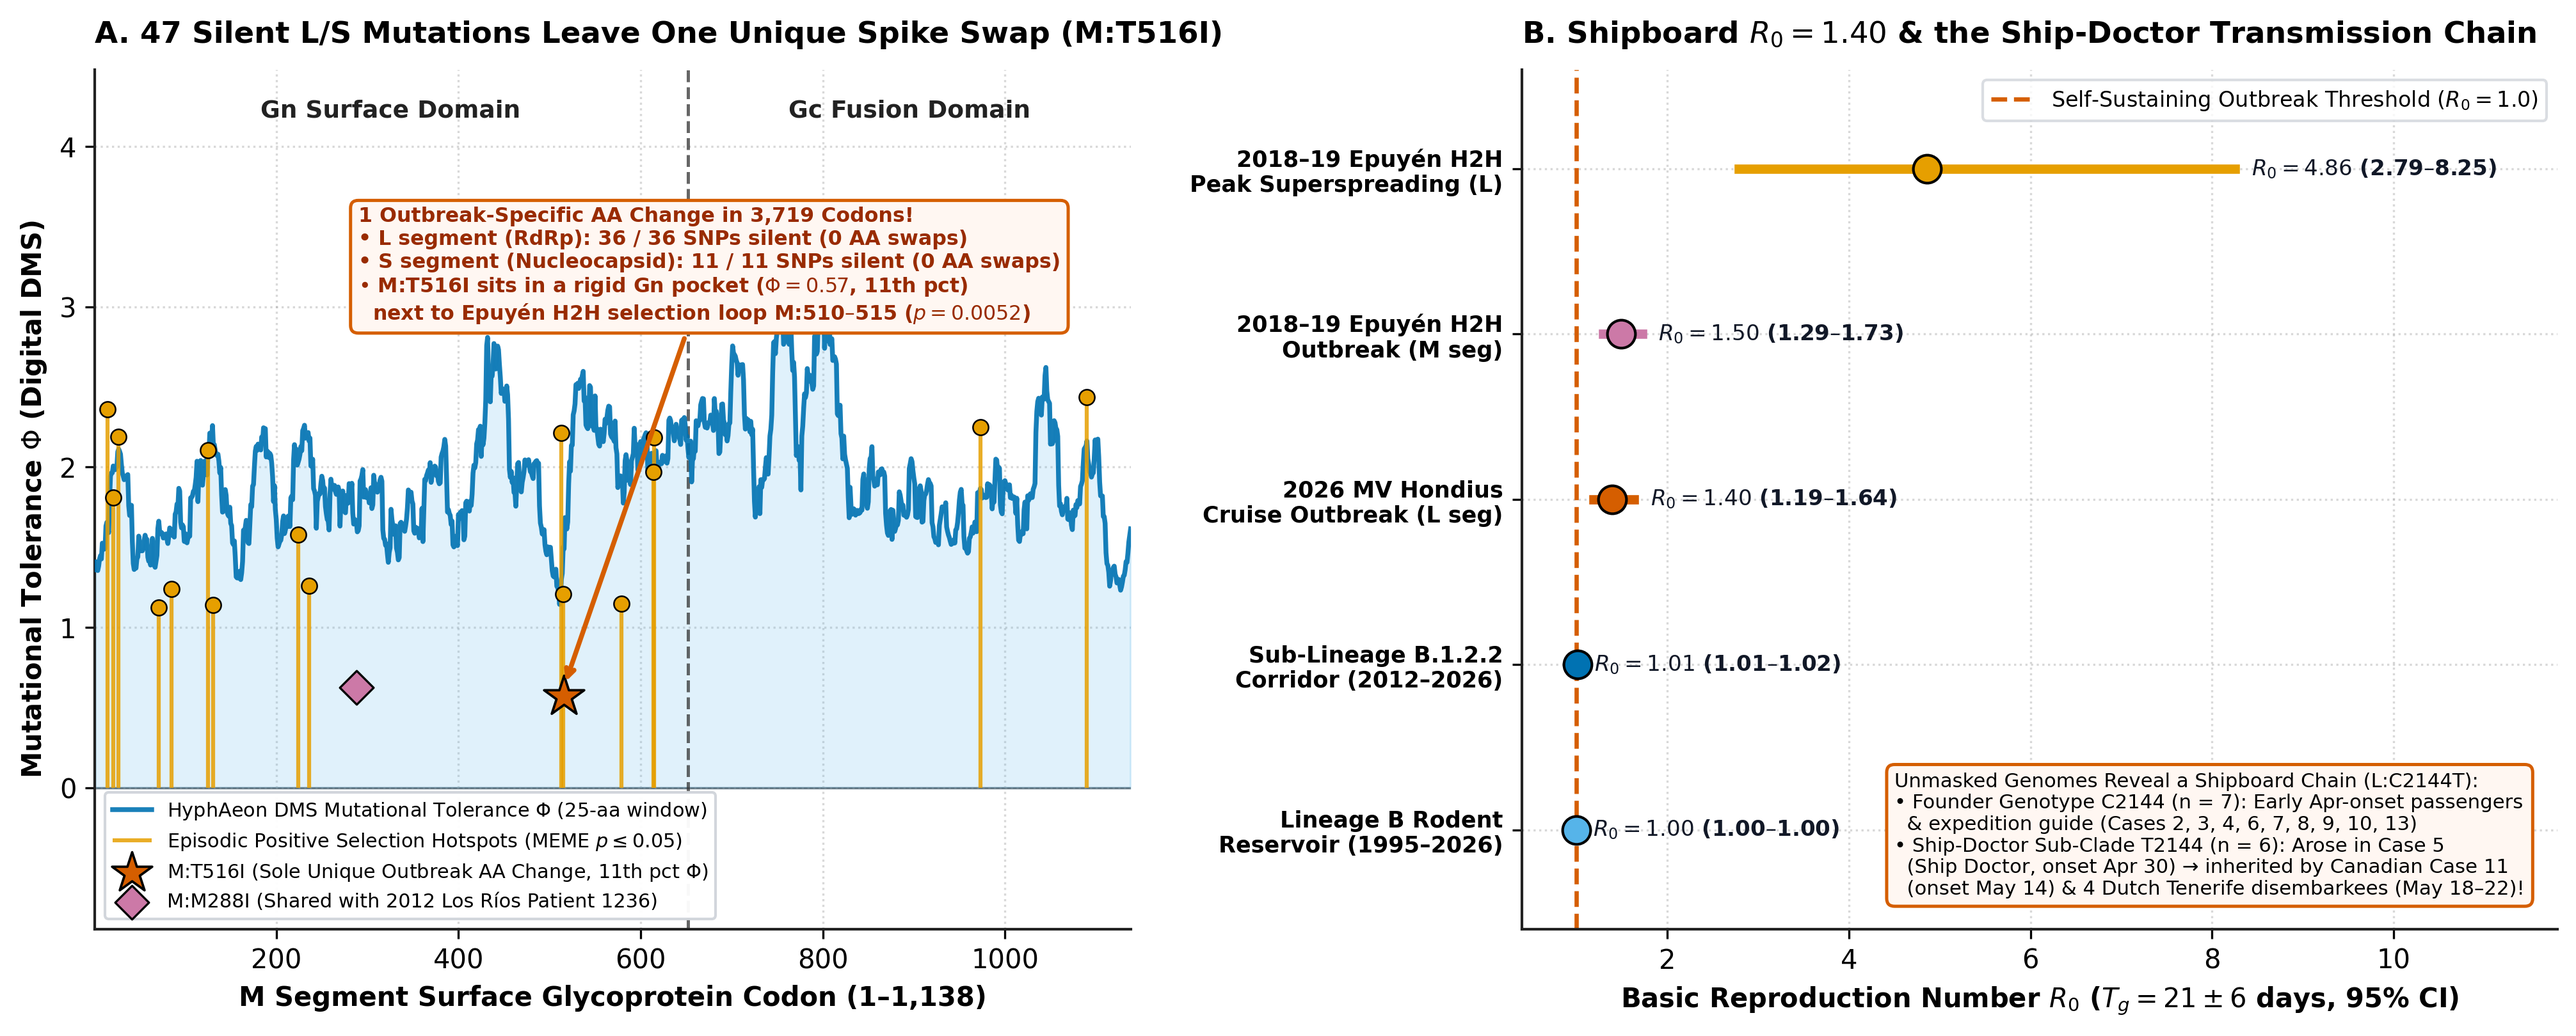
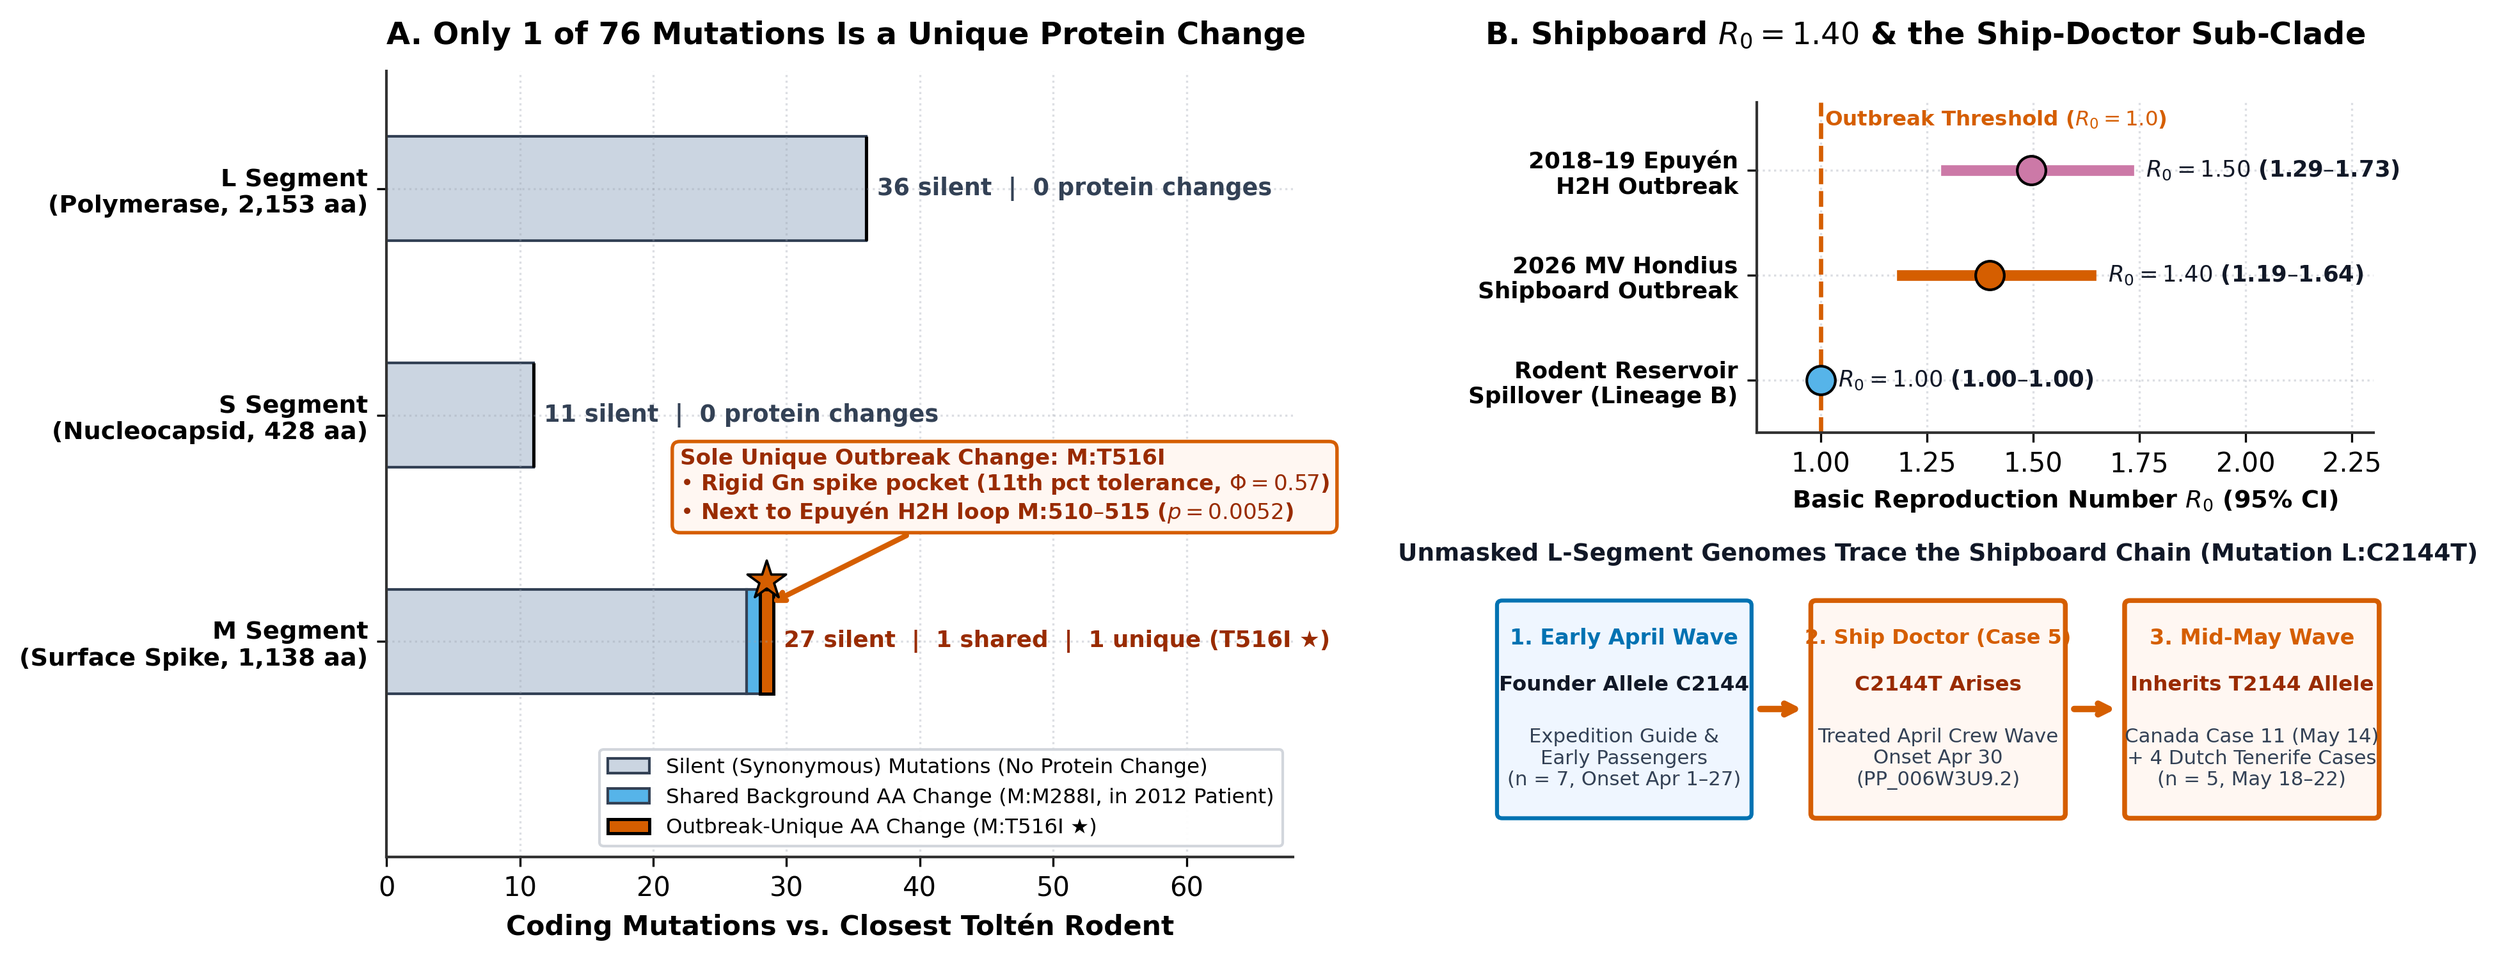
Simplify MV Hondius blog figures with segment tanglegram and transmission flowchart

diff --git a/blog/2026-11-05-andv-hondius.html b/blog/2026-11-05-andv-hondius.html
@@ -300,11 +300,11 @@
 
         <div class="figure-container">
             <img src="images/andv_hondius_fig1_origin_reassortment.png"
-                alt="Two-panel figure showing (A) ChronAeon molecular clock regression dating Clade B.1.2.2 to 1989.5 and the Tolten-Hondius split to 2007.9, and (B) RhizAeon coding divergence showing Lanco rodent R600-UDD is an L vs M+S inter-clade reassortant.">
+                alt="Two-panel figure showing (A) ChronAeon molecular clock regression narrowing the Tolten-Hondius split by 7.3 years from 2000 to 2007.9, and (B) simplified segment trees (tanglegram) showing Lanco rodent R600-UDD switching from Clade B.1.2.2 on the L segment to Clade B.1.2.1 on the M and S segments.">
             <div class="figure-caption">
-                <strong>Figure 1. Post-2013 genomes narrow the outbreak split by 7.3 years and expose a chimeric rodent genome.</strong>
-                <strong>(A)</strong> In 0.57 seconds, <code>chronaeon date</code> calibrates the expanded <code>B.1.2.2</code> M-segment clock (<span class="metric-badge">R² = 0.73</span>, Fieller <em>g</em> = 0.11), dating the clade crown to <strong>1989.5</strong> and narrowing the Toltén–<em>Hondius</em> split from August 2000 to <strong>~2007.9</strong> (95% CI: 2003.4–2010.8). Fieller's ratio <em>g</em> shows why the short 1.3 kb S segment (<em>g</em> = 2.25 ≥ 1) cannot support a bounded clock.
-                <strong>(B)</strong> Scanning all 105 three-segment genomes with <code>rhizaeon</code> reveals that Lanco rodent <code>R600-UDD</code> (2013) is an inter-clade reassortant (<span class="metric-badge">p = 3.2 × 10⁻¹¹</span>): its L segment matches Toltén/Lanco <code>B.1.2.2</code> (50 SNPs to <em>MV Hondius</em>), whereas its M and S segments jump to the Los Lagos <code>B.1.2.1</code> clade (93 M-SNPs to <em>MV Hondius</em>).
+                <strong>Figure 1. Post-2013 genomes narrow the outbreak split by 7.3 years and segment trees expose a chimeric rodent genome.</strong>
+                <strong>(A)</strong> In 0.57 seconds, <code>chronaeon date</code> calibrates the expanded <code>B.1.2.2</code> M-segment clock (<span class="metric-badge">R² = 0.73</span>, Fieller <em>g</em> = 0.11), shifting the Toltén–<em>Hondius</em> split forward by <strong>7.3 years</strong> from August 2000 to <strong>~2007.9</strong> (95% CI: 2003.4–2010.8).
+                <strong>(B)</strong> Simplified segment trees (<code>rhizaeon</code>) comparing the L segment (polymerase, left) against the M and S segments (spike and nucleocapsid, right). While <em>MV Hondius</em> and its Toltén/Los Ríos relatives stay inside Clade <code>B.1.2.2</code> across all three segments, Lanco rodent <code>R600-UDD</code> (2013) is an inter-clade reassortant (<span class="metric-badge">p = 3.2 × 10⁻¹¹</span>) whose M and S segments jump into the Los Lagos <code>B.1.2.1</code> clade.
             </div>
         </div>
 
@@ -334,11 +334,11 @@
 
         <div class="figure-container">
             <img src="images/andv_hondius_fig2_selection_transmission.png"
-                alt="Two-panel figure showing (A) HyphAeon mutational tolerance and positive selection across the M segment glycoprotein highlighting M:T516I next to the Epuyen selection loop M:510-515, and (B) ChronAeon R0 estimates and the L:C2144T ship-doctor transmission chain.">
+                alt="Two-panel figure showing (A) silent versus protein-changing mutations across the L, S, and M segments highlighting M:T516I as the only unique outbreak protein change out of 76 mutations, and (B) ChronAeon R0 estimates above a three-step flowchart of the L:C2144T ship-doctor transmission chain.">
             <div class="figure-caption">
-                <strong>Figure 2. Proteome-wide purifying conservation, the sole unique spike mutation <code>M:T516I</code>, and the shipboard transmission chain.</strong>
-                <strong>(A)</strong> Across all 3,719 codons of the <code>ANDV</code> proteome, <code>M:T516I</code> (orange star) is the only amino-acid substitution unique to the 2026 <em>MV Hondius</em> outbreak. In <code>hyphaeon dms</code>, site 516 sits in a structurally rigid pocket of the Gn surface domain (<span class="metric-badge">Φ = 0.57</span>, 11th percentile of M-segment tolerance) directly adjacent to an episodic positive selection loop (<code>M:510–515</code>, orange lollipops, <span class="metric-badge">p = 0.0052</span>) driven by the 2018–2019 Epuyén human-to-human outbreak.
-                <strong>(B)</strong> <code>chronaeon dynamics</code> separates endemic rodent reservoir spillover (<em>R</em><sub>0</sub> = 1.00) from self-sustaining shipboard spread aboard <em>MV Hondius</em> (<span class="metric-badge">R₀ = 1.40</span>, 95% CI: 1.19–1.64). Unmasked L-segment genomes reveal a shipboard mutation (<code>L:C2144T</code>) that arose in the ship's doctor (Case 5, onset Apr 30) and was inherited by five mid-May passenger cases across Canada and the Netherlands.
+                <strong>Figure 2. Only 1 of 76 coding mutations is a unique protein change (<code>M:T516I</code>), and unmasked genomes trace the shipboard chain.</strong>
+                <strong>(A)</strong> Comparing <em>MV Hondius</em> against its closest Toltén rodent neighbors across all 3,719 codons: 36/36 L-segment mutations and 11/11 S-segment mutations are silent, and <code>M:M288I</code> was already present in 2012 Patient 1236, leaving <strong><code>M:T516I</code></strong> (orange star) as the only outbreak-unique amino-acid change—located in a rigid Gn pocket (<span class="metric-badge">Φ = 0.57</span>, 11th percentile) next to the Epuyén human-to-human selection loop (<code>M:510–515</code>, <span class="metric-badge">p = 0.0052</span>).
+                <strong>(B)</strong> Top: <code>chronaeon dynamics</code> separates rodent spillover (<em>R</em><sub>0</sub> = 1.00) from self-sustaining shipboard transmission (<span class="metric-badge">R₀ = 1.40</span>, 95% CI: 1.19–1.64). Bottom: unmasked L-segment genomes reveal a mutation (<code>L:C2144T</code>) that arose in the ship's doctor (Case 5, onset Apr 30) and was inherited by five mid-May passenger cases across Canada and the Netherlands.
             </div>
         </div>
 
